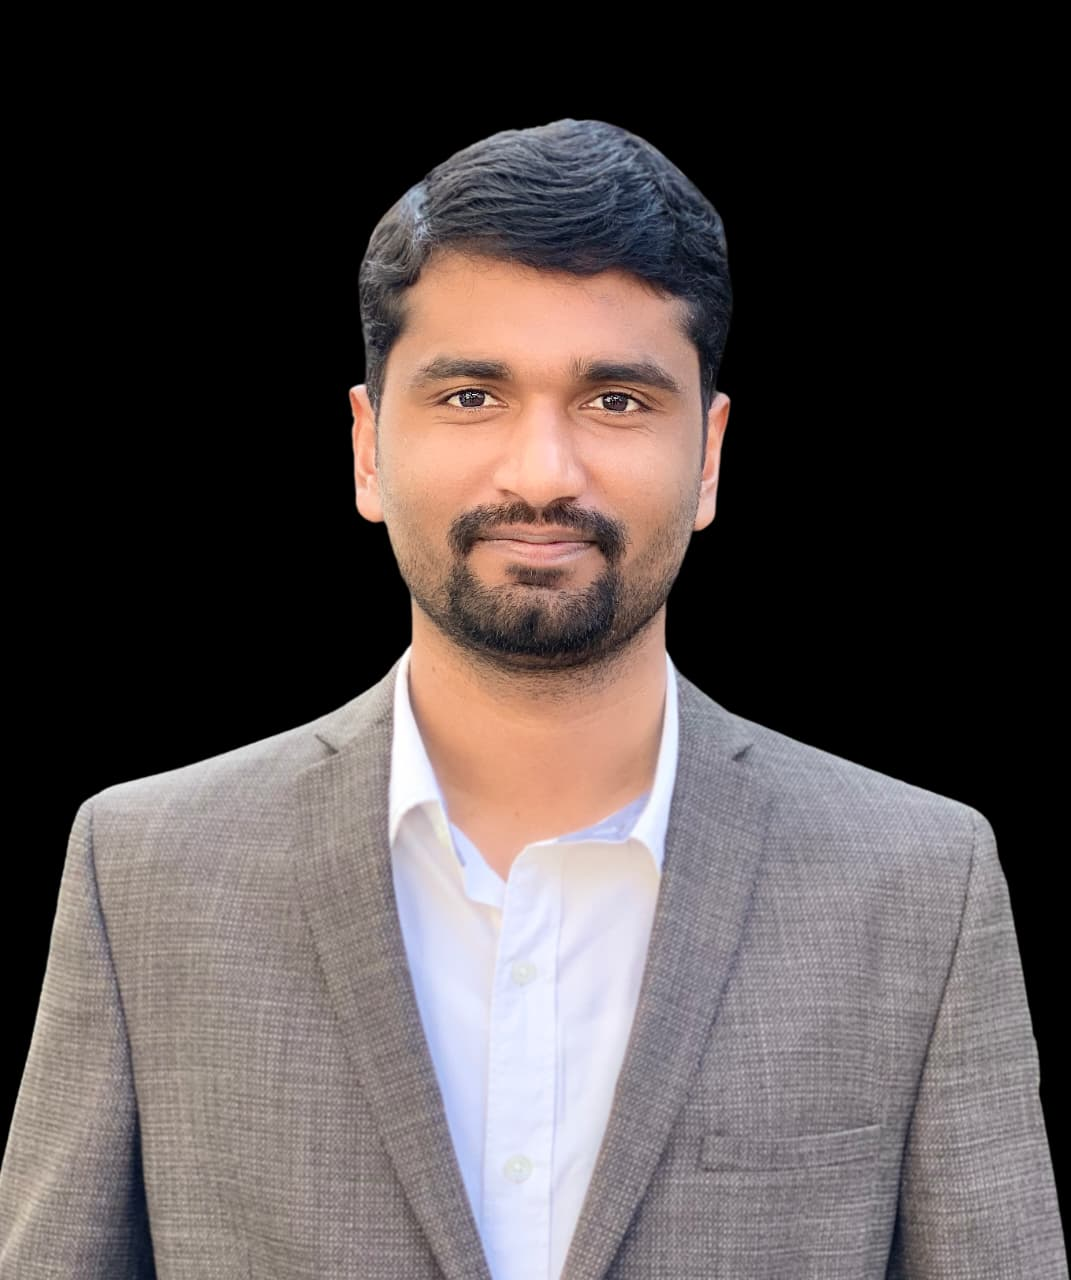
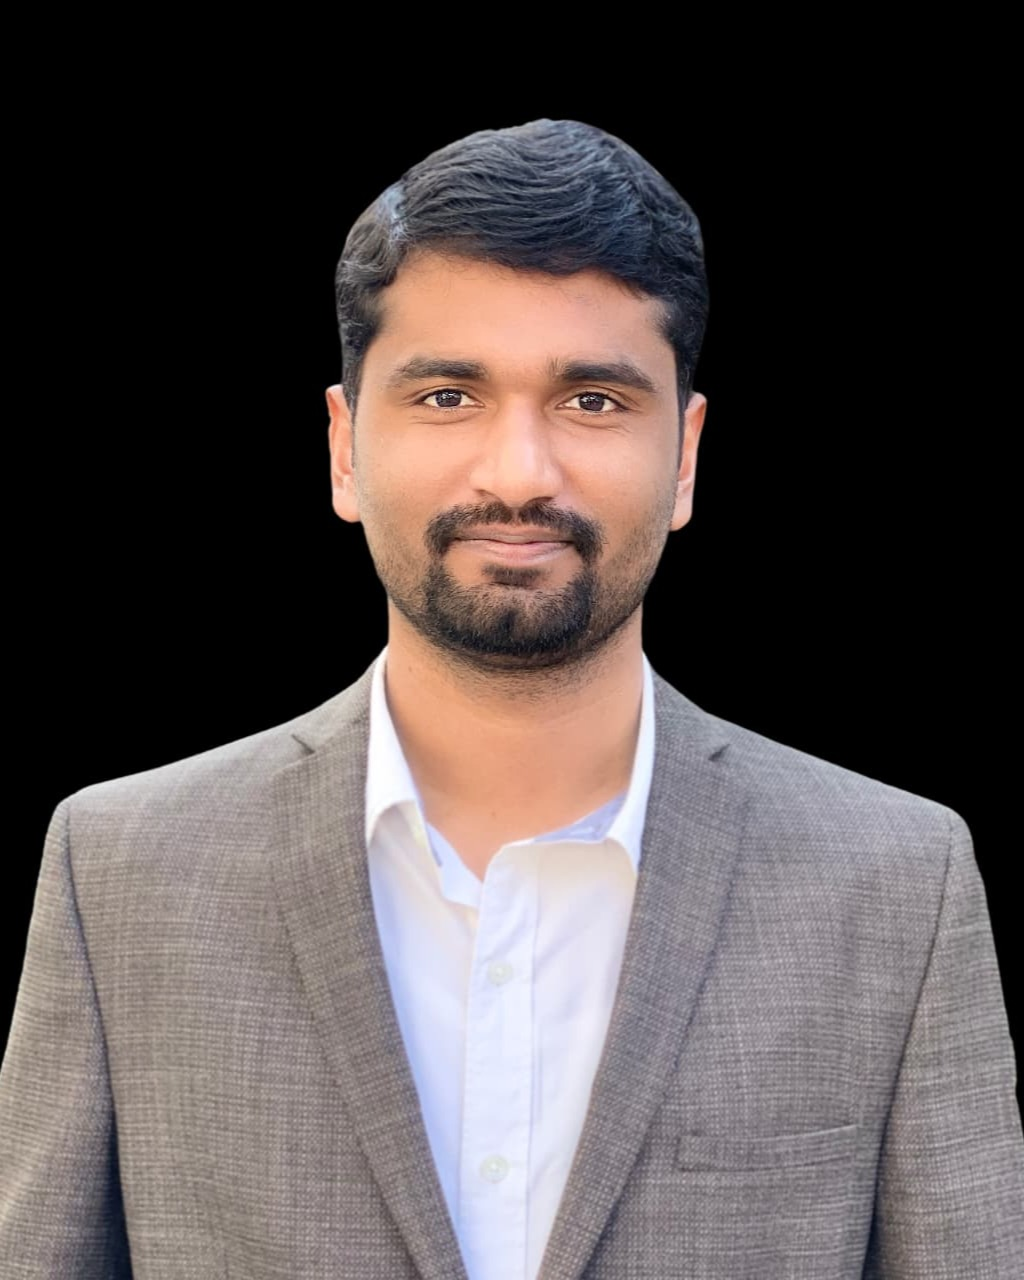
cv-removed

diff --git a/components/TeamMemberCard.tsx b/components/TeamMemberCard.tsx
@@ -1,42 +1,28 @@
 import React from 'react';
 import type { TeamMember } from '../types';
-import { Download } from 'lucide-react';
+
 
 interface TeamMemberCardProps {
     member: TeamMember;
 }
 
 const TeamMemberCard: React.FC<TeamMemberCardProps> = ({ member }) => {
-    const handleDownloadCV = () => {
-        // Create a temporary anchor element to trigger download
-        const link = document.createElement('a');
-        link.href = member.cvPath;
-        link.download = `${member.name.replace(/\s+/g, '_')}_CV.pdf`;
-        document.body.appendChild(link);
-        link.click();
-        document.body.removeChild(link);
-    };
+
 
     return (
         <div className="bg-white rounded-lg shadow-md hover:shadow-xl transition-all duration-300 overflow-hidden">
-            <div className="aspect-square overflow-hidden bg-gray-100">
+            <div className="overflow-hidden bg-gray-100">
                 <img
                     src={member.image}
                     alt={`${member.name} - ${member.role}`}
-                    className="w-full h-full object-cover hover:scale-105 transition-transform duration-300"
+                    className="w-full h-auto hover:scale-105 transition-transform duration-300"
                 />
             </div>
             <div className="p-6">
                 <h3 className="text-xl font-bold text-gray-900 mb-1">{member.name}</h3>
                 <p className="text-blue-600 font-semibold mb-3">{member.role}</p>
                 <p className="text-gray-600 mb-4 text-sm leading-relaxed">{member.description}</p>
-                <button
-                    onClick={handleDownloadCV}
-                    className="w-full bg-blue-600 hover:bg-blue-700 text-white font-semibold py-2.5 px-4 rounded-lg transition-colors duration-200 flex items-center justify-center gap-2"
-                >
-                    <Download size={18} />
-                    Download CV
-                </button>
+
             </div>
         </div>
     );
